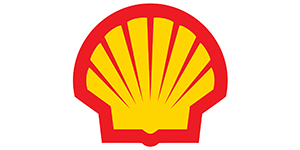
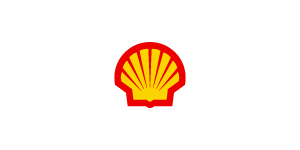
Shell

diff --git a/lineup.html b/lineup.html
@@ -61,7 +61,7 @@ Released   : 20140131
 		<div class="boxC"><a href="http://www.powertechlabs.com/home/" target="blank"><img src="images/powertech.jpg" width="300" height="150" alt="" /></a><center><strong>PowerTech</strong></center></div>
 	</div>
 	<div id="page" class="container">
-		<div class="boxA"><a href="http://www.shell.ca/" target="blank"><img src="images/empty.jpg" width="300" height="150" alt="" /><center><strong>Shell</strong></center></a></div>
+		<div class="boxA"><a href="http://www.shell.ca/" target="blank"><img src="images/shell.jpg" width="300" height="150" alt="" /></a><center><strong>Shell</strong></center></div>
 		<div class="boxB"><a href="http://www.sierrawireless.com/" target="blank"><img src="images/sierra.jpg" width="300" height="150" alt="" /></a><center><strong>Sierra Wireless</strong></center></div>
 		<div class="boxC"><a href="http://www.teradici.com/" target="blank"><img src="images/teradici.jpg" width="300" height="150" alt="" /></a><center><strong>Teradici</strong></center></div>
 	</div>
